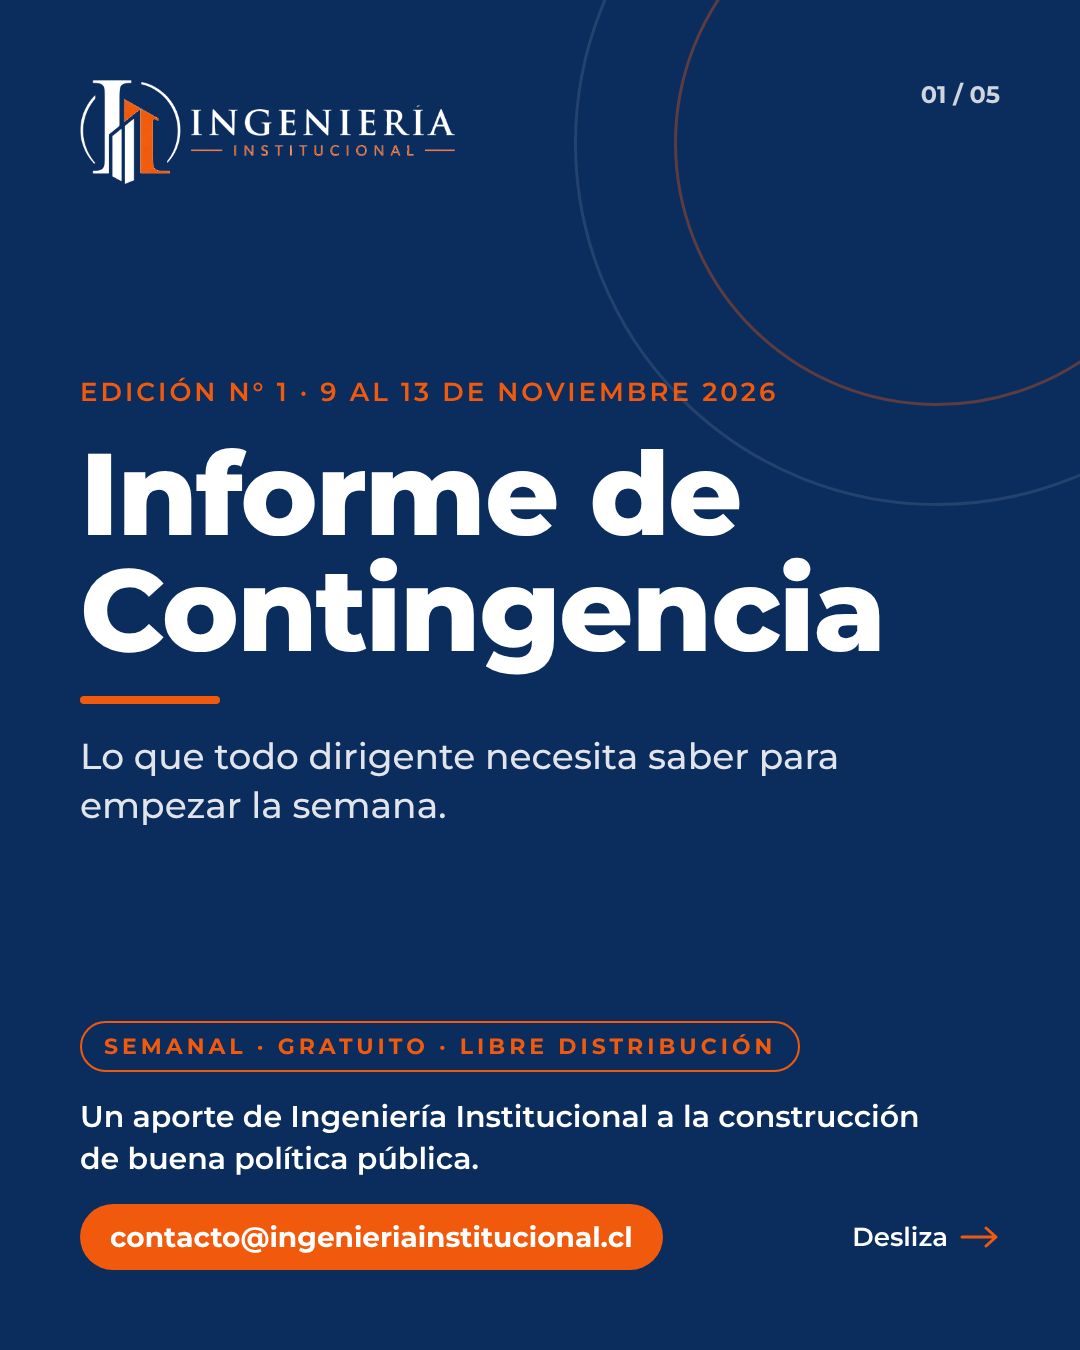
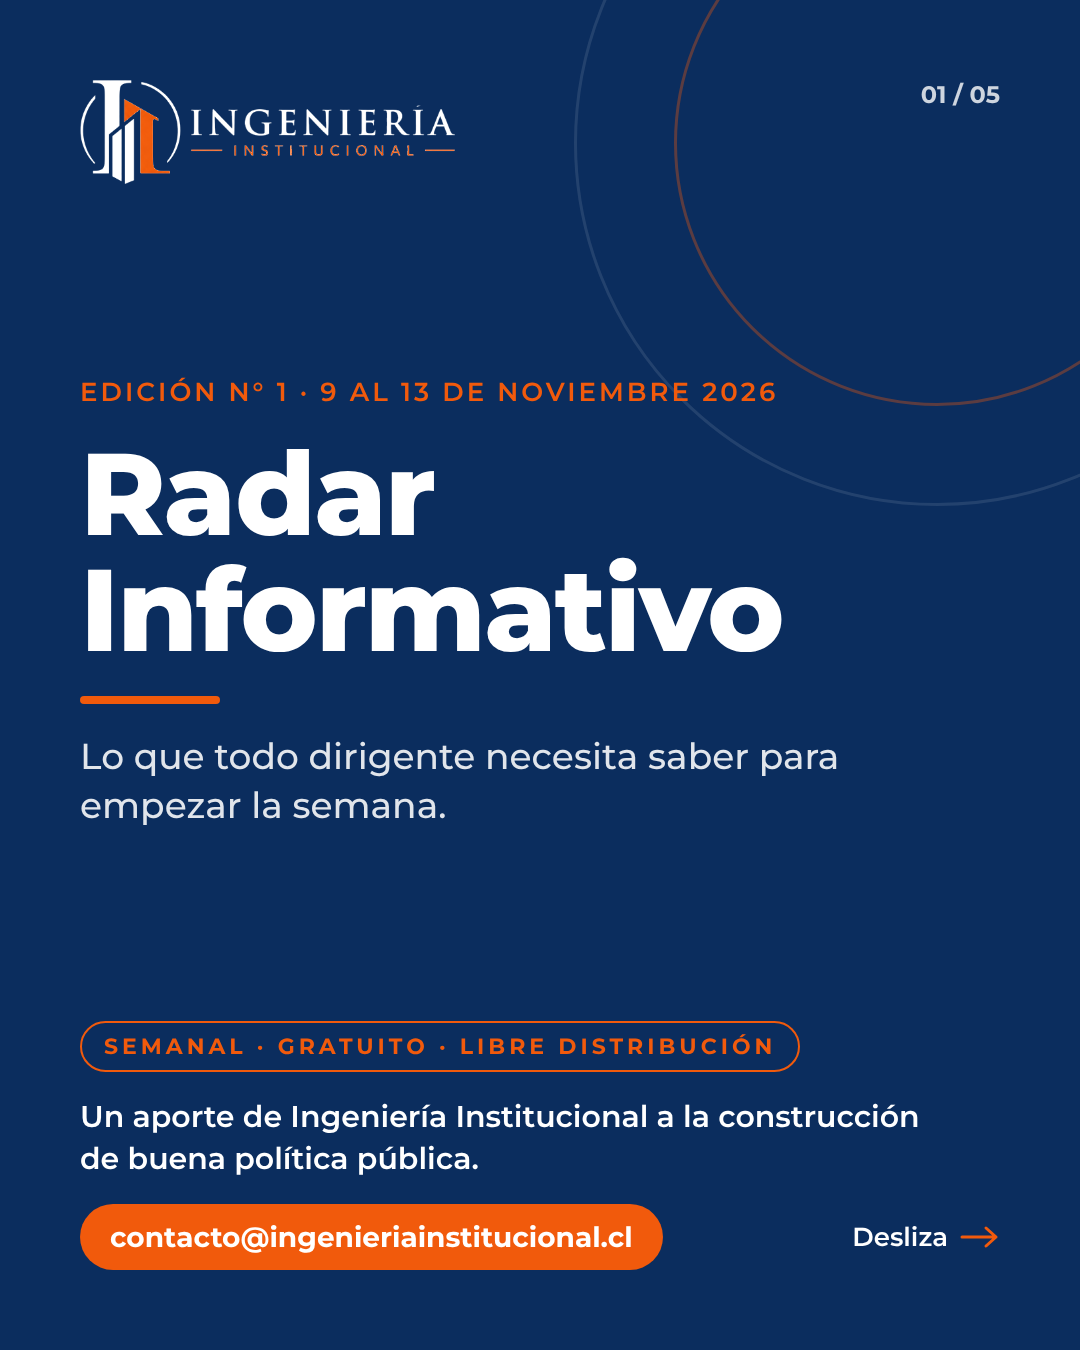
Renombra a Radar Informativo, reordena secciones y aclara el Presupuesto

Changed region(s): [[0.0611, 0.3111, 0.825, 0.4978]]

diff --git a/plantillas/carrusel.js b/plantillas/carrusel.js
@@ -51,7 +51,7 @@
     const mid = css(el('div'), 'display:flex;flex-direction:column;gap:28px;position:relative');
     mid.append(
       css(el('div', null, (ed.portada && ed.portada.kicker) || ('Edición N° ' + ed.numero + ' · ' + ed.rango)), `font-size:26px;font-weight:600;letter-spacing:3px;text-transform:uppercase;color:${ORANGE}`),
-      css(el('h1', null, 'Informe de Contingencia'), 'margin:0;font-size:116px;line-height:1.0;font-weight:800;letter-spacing:-2px'),
+      css(el('h1', null, 'Radar Informativo'), 'margin:0;font-size:116px;line-height:1.0;font-weight:800;letter-spacing:-2px'),
       css(el('div'), `width:140px;height:8px;background:${ORANGE};border-radius:4px`),
       css(el('p', null, (ed.portada && ed.portada.bajada) || ''), 'margin:0;font-size:36px;line-height:1.35;font-weight:500;color:rgba(255,255,255,0.88);max-width:880px')
     );
@@ -69,7 +69,7 @@
     return s;
   }
 
-  // 02 Resumen político
+  // 03 Resumen político
   function resumen() {
     const s = base('#F4F5F7');
     s.style.gap = '32px';
@@ -84,11 +84,11 @@
       cuerpo.append(c);
     });
     cuerpo.append(cajaAzul(ed.resumen.cierre_titulo || 'Qué significa para los gremios', ed.resumen.cierre, 27));
-    s.append(encabezado(2), titulo('Nuestra lectura de la semana', 'Resumen político'), cuerpo);
+    s.append(encabezado(3), titulo('Nuestra lectura de la semana', 'Resumen político'), cuerpo);
     return s;
   }
 
-  // 03 Seguimiento legislativo
+  // 04 Seguimiento legislativo
   function legislativo() {
     const s = base('#F4F5F7');
     const cuerpo = css(el('div'), 'display:flex;flex-direction:column;gap:16px;flex-grow:1;justify-content:space-between');
@@ -103,11 +103,11 @@
       c.append(h, css(rich('p', null, k.texto), `margin:0;font-size:23px;line-height:1.42;font-weight:500;color:${BODY}`), css(el('span', null, 'Próximo: ' + k.proximo), `font-size:21px;font-weight:700;color:${ORANGE_T}`));
       cuerpo.append(c);
     });
-    s.append(encabezado(3), titulo('En qué va cada tema', 'Seguimiento legislativo', 64), cuerpo);
+    s.append(encabezado(4), titulo('En qué va cada tema', 'Seguimiento legislativo', 64), cuerpo);
     return s;
   }
 
-  // 04 Economía en fácil
+  // 02 Economía en fácil
   function economia() {
     const s = base('#F4F5F7');
     s.style.gap = '24px';
@@ -123,12 +123,12 @@
     });
     const pie = css(el('div'), `display:flex;align-items:center;gap:20px;font-size:20px;font-weight:600;color:${GRAY}`);
     pie.append(css(el('div'), `width:64px;height:5px;background:${ORANGE};border-radius:3px`), el('span', null, 'Fuentes: ' + (ed.economia.fuentes || '')));
-    s.append(encabezado(4), titulo('Datos en fácil', '¿Cómo está la economía?', 60), grid, cajaAzul('En síntesis', ed.economia.sintesis, 24), pie);
+    s.append(encabezado(2), titulo('Datos en fácil', '¿Cómo está la economía?', 60), grid, cajaAzul('En síntesis', ed.economia.sintesis, 24), pie);
     return s;
   }
 
-  // 05 Radar de noticias
-  function radar() {
+  // 05 Noticias de la semana
+  function noticias() {
     const s = base('#F4F5F7');
     s.style.gap = '32px';
     const caja = css(el('div'), 'background:#fff;border-radius:20px;padding:14px 40px;display:flex;flex-direction:column;flex-grow:1;justify-content:space-around');
@@ -141,11 +141,11 @@
       );
       caja.append(d);
     });
-    s.append(encabezado(5), titulo('Lo que hay que leer', 'Radar de noticias'), caja);
+    s.append(encabezado(5), titulo('Lo que hay que leer', 'Noticias de la semana', 64), caja);
     return s;
   }
 
-  const laminas = [portada, resumen, legislativo, economia, radar];
+  const laminas = [portada, economia, resumen, legislativo, noticias];
   const pedida = Number(IC.param('lamina'));
   const cont = document.getElementById('laminas');
   if (pedida >= 1 && pedida <= TOTAL) cont.append(laminas[pedida - 1]());

diff --git a/index.html b/index.html
@@ -3,7 +3,7 @@
 <head>
 <meta charset="utf-8">
 <meta name="viewport" content="width=device-width, initial-scale=1">
-<title>Informe de Contingencia · Ingeniería Institucional</title>
+<title>Radar Informativo · Ingeniería Institucional</title>
 <meta name="description" content="Lo que todo dirigente necesita saber para empezar la semana. Un aporte semanal y de libre distribución de Ingeniería Institucional.">
 <link rel="icon" href="assets/logo-color.png">
 <link rel="stylesheet" href="assets/fonts.css">
@@ -20,7 +20,7 @@
       </label>
     </div>
     <div class="ic-kicker" id="ic-kicker">Cargando…</div>
-    <h1 class="ic-title">Informe de Contingencia</h1>
+    <h1 class="ic-title">Radar Informativo</h1>
     <div class="ic-rule"></div>
     <p class="ic-bajada" id="ic-bajada"></p>
     <a class="ic-descarga" id="ic-descarga" href="#" hidden>Descargar carrusel (imágenes)</a>
@@ -30,28 +30,28 @@
   <div class="ic-anterior" id="ic-anterior" hidden>Estás viendo una edición anterior. <a href="./">Ir a la edición vigente</a></div>
 
   <main id="ic-main">
+    <section class="ic-panel" id="economia">
+      <div class="ic-sec"><span class="ic-sec-n">01.</span><h2>Economía en fácil</h2></div>
+      <p class="ic-intro">Cuatro preguntas para entender cómo está la economía.</p>
+      <div class="ic-grid" id="ic-indicadores"></div>
+      <div class="ic-sintesis"><span>En síntesis</span><p id="ic-econ-sintesis"></p></div>
+    </section>
+
     <section class="ic-panel" id="resumen">
-      <div class="ic-sec"><span class="ic-sec-n">01.</span><h2>Resumen político</h2></div>
+      <div class="ic-sec"><span class="ic-sec-n">02.</span><h2>Resumen político</h2></div>
       <p class="ic-intro">Nuestra lectura de la semana.</p>
       <div class="ic-pol" id="ic-pol"></div>
       <div class="ic-sintesis"><span id="ic-cierre-titulo"></span><p id="ic-cierre"></p></div>
     </section>
 
     <section class="ic-panel" id="agenda">
-      <div class="ic-sec"><span class="ic-sec-n">02.</span><h2>Seguimiento legislativo</h2></div>
+      <div class="ic-sec"><span class="ic-sec-n">03.</span><h2>Seguimiento legislativo</h2></div>
       <p class="ic-intro">En qué va cada tema, qué viene y qué conviene hacer.</p>
       <div class="ic-list" id="ic-frentes"></div>
     </section>
 
-    <section class="ic-panel" id="economia">
-      <div class="ic-sec"><span class="ic-sec-n">03.</span><h2>Economía en fácil</h2></div>
-      <p class="ic-intro">Cuatro preguntas para entender cómo está la economía.</p>
-      <div class="ic-grid" id="ic-indicadores"></div>
-      <div class="ic-sintesis"><span>En síntesis</span><p id="ic-econ-sintesis"></p></div>
-    </section>
-
     <section class="ic-panel" id="noticias">
-      <div class="ic-sec"><span class="ic-sec-n">04.</span><h2>Radar de noticias</h2></div>
+      <div class="ic-sec"><span class="ic-sec-n">04.</span><h2>Noticias de la semana</h2></div>
       <p class="ic-intro">Noticias seleccionadas, ordenadas por tema. Cada titular abre la nota original.</p>
       <div class="ic-news" id="ic-noticias"></div>
     </section>

diff --git a/ediciones/2026-11-09/carrusel/index.html b/ediciones/2026-11-09/carrusel/index.html
@@ -1,6 +1,6 @@
 <!doctype html>
 <html lang="es"><head><meta charset="utf-8"><meta name="viewport" content="width=device-width, initial-scale=1">
-<title>Carrusel N° 1 · Informe de Contingencia</title>
+<title>Carrusel N° 1 · Radar Informativo</title>
 <link rel="stylesheet" href="../../../assets/fonts.css">
 <style>body{margin:0;background:#F4F5F7;color:#0B2D5E;font-family:Montserrat,system-ui,sans-serif;padding:24px}
 main{max-width:1100px;margin:0 auto}h1{font-size:1.5rem}a{color:#C2410C;font-weight:700}
@@ -10,7 +10,7 @@ figure{margin:0;background:#fff;border-radius:12px;padding:12px}img{width:100%;h
 <h1>Carrusel · Edición N° 1 · 9 al 13 de noviembre de 2026</h1>
 <p>Láminas de 1080 × 1350 px para Instagram, LinkedIn o WhatsApp.</p>
 <div class="grid"><figure><img src="01-portada.png" alt="01-portada" loading="lazy"><figcaption><a href="01-portada.png" download>Descargar 01-portada.png</a></figcaption></figure>
-<figure><img src="02-resumen-politico.png" alt="02-resumen-politico" loading="lazy"><figcaption><a href="02-resumen-politico.png" download>Descargar 02-resumen-politico.png</a></figcaption></figure>
-<figure><img src="03-seguimiento-legislativo.png" alt="03-seguimiento-legislativo" loading="lazy"><figcaption><a href="03-seguimiento-legislativo.png" download>Descargar 03-seguimiento-legislativo.png</a></figcaption></figure>
-<figure><img src="04-economia-en-facil.png" alt="04-economia-en-facil" loading="lazy"><figcaption><a href="04-economia-en-facil.png" download>Descargar 04-economia-en-facil.png</a></figcaption></figure>
-<figure><img src="05-radar-de-noticias.png" alt="05-radar-de-noticias" loading="lazy"><figcaption><a href="05-radar-de-noticias.png" download>Descargar 05-radar-de-noticias.png</a></figcaption></figure></div></main></body></html>
+<figure><img src="02-economia-en-facil.png" alt="02-economia-en-facil" loading="lazy"><figcaption><a href="02-economia-en-facil.png" download>Descargar 02-economia-en-facil.png</a></figcaption></figure>
+<figure><img src="03-resumen-politico.png" alt="03-resumen-politico" loading="lazy"><figcaption><a href="03-resumen-politico.png" download>Descargar 03-resumen-politico.png</a></figcaption></figure>
+<figure><img src="04-seguimiento-legislativo.png" alt="04-seguimiento-legislativo" loading="lazy"><figcaption><a href="04-seguimiento-legislativo.png" download>Descargar 04-seguimiento-legislativo.png</a></figcaption></figure>
+<figure><img src="05-noticias-de-la-semana.png" alt="05-noticias-de-la-semana" loading="lazy"><figcaption><a href="05-noticias-de-la-semana.png" download>Descargar 05-noticias-de-la-semana.png</a></figcaption></figure></div></main></body></html>

diff --git a/assets/site.js b/assets/site.js
@@ -34,14 +34,14 @@
   // Encabezado
   $('ic-kicker').textContent = 'Edición N° ' + ed.numero + ' · ' + ed.rango;
   $('ic-bajada').textContent = (ed.portada && ed.portada.bajada) || '';
-  document.title = 'Informe de Contingencia N° ' + ed.numero + ' · Ingeniería Institucional';
+  document.title = 'Radar Informativo N° ' + ed.numero + ' · Ingeniería Institucional';
   $('ic-borrador').hidden = ed.estado === 'publicada';
   $('ic-anterior').hidden = !(ed.estado === 'publicada' && vig && ed.id !== vig.id);
   const desc = $('ic-descarga');
   desc.href = 'ediciones/' + ed.id + '/carrusel/';
   desc.hidden = false;
 
-  // 01 Resumen político
+  // 02 Resumen político
   (ed.resumen.items || []).forEach((r) => {
     const c = el('article', 'ic-card ic-pol-item');
     c.append(el('span', 'ic-pol-num', r.cifra), el('span', 'ic-pol-lab', r.etiqueta), el('h3', null, r.titulo), rich('p', null, r.texto));
@@ -50,7 +50,7 @@
   $('ic-cierre-titulo').textContent = ed.resumen.cierre_titulo || 'Qué significa para los gremios';
   $('ic-cierre').textContent = ed.resumen.cierre || '';
 
-  // 02 Seguimiento legislativo
+  // 03 Seguimiento legislativo
   (ed.frentes || []).forEach((f) => {
     const c = el('article', 'ic-card ic-f');
     const head = el('div', 'ic-f-head');
@@ -69,7 +69,7 @@
     $('ic-frentes').append(c);
   });
 
-  // 03 Economía en fácil
+  // 01 Economía en fácil
   (ed.economia.indicadores || []).forEach((i) => {
     const c = el('article', 'ic-card ic-ind');
     c.append(el('h3', null, i.pregunta), el('span', 'ic-ind-val', i.valor), el('span', 'ic-light ' + i.semaforo, i.estado), rich('p', null, i.texto), el('span', 'ic-ind-src', 'Fuente: ' + i.fuente));
@@ -77,7 +77,7 @@
   });
   $('ic-econ-sintesis').textContent = ed.economia.sintesis || '';
 
-  // 04 Radar de noticias
+  // 04 Noticias de la semana
   const grupos = new Map();
   (ed.noticias || []).slice().sort((a, b) => String(b.fecha).localeCompare(String(a.fecha))).forEach((n) => {
     if (!grupos.has(n.tema)) grupos.set(n.tema, []);

diff --git a/scripts/generar-carrusel.js b/scripts/generar-carrusel.js
@@ -24,7 +24,7 @@ const server = http.createServer((req, res) => {
   fs.createReadStream(file).pipe(res);
 });
 
-const nombres = ['01-portada', '02-resumen-politico', '03-seguimiento-legislativo', '04-economia-en-facil', '05-radar-de-noticias'];
+const nombres = ['01-portada', '02-economia-en-facil', '03-resumen-politico', '04-seguimiento-legislativo', '05-noticias-de-la-semana'];
 
 server.listen(0, '127.0.0.1', async () => {
   const port = server.address().port;
@@ -59,7 +59,7 @@ server.listen(0, '127.0.0.1', async () => {
   const items = nombres.map((n) => `<figure><img src="${n}.png" alt="${n}" loading="lazy"><figcaption><a href="${n}.png" download>Descargar ${n}.png</a></figcaption></figure>`).join('\n');
   fs.writeFileSync(path.join(salida, 'index.html'), `<!doctype html>
 <html lang="es"><head><meta charset="utf-8"><meta name="viewport" content="width=device-width, initial-scale=1">
-<title>Carrusel N° ${ed.numero} · Informe de Contingencia</title>
+<title>Carrusel N° ${ed.numero} · Radar Informativo</title>
 <link rel="stylesheet" href="../../../assets/fonts.css">
 <style>body{margin:0;background:#F4F5F7;color:#0B2D5E;font-family:Montserrat,system-ui,sans-serif;padding:24px}
 main{max-width:1100px;margin:0 auto}h1{font-size:1.5rem}a{color:#C2410C;font-weight:700}

diff --git a/plantillas/carrusel.html b/plantillas/carrusel.html
@@ -2,7 +2,7 @@
 <html lang="es">
 <head>
 <meta charset="utf-8">
-<title>Carrusel · Informe de Contingencia</title>
+<title>Carrusel · Radar Informativo</title>
 <link rel="stylesheet" href="../assets/fonts.css">
 <style>
   body { margin: 0; background: #DDE1E7; font-family: 'Montserrat', sans-serif; }

diff --git a/GUIA-EDITORIAL.md b/GUIA-EDITORIAL.md
@@ -1,4 +1,4 @@
-# Guía editorial y de producción · Informe de Contingencia
+# Guía editorial y de producción · Radar Informativo
 
 Esta guía la sigue la tarea automática de cada domingo, y sirve también para quien prepare una edición a mano. Si cambia el criterio editorial, se edita este archivo.
 
@@ -9,10 +9,10 @@ Esta guía la sigue la tarea automática de cada domingo, y sirve también para 
 - **Formatos:** sitio web (este repositorio, con GitHub Pages) y carrusel de 5 imágenes (1080 × 1350).
 - **Ciclo:** se prepara el domingo y queda listo a las 21:00 como **borrador**. Se publica cuando Tomás Laibe o Andrés Smith lo aprueban, y se distribuye el lunes a primera hora.
 - **Secciones, en este orden:**
-  1. Resumen político
-  2. Seguimiento legislativo
-  3. Economía en fácil
-  4. Radar de noticias
+  1. Economía en fácil (datos)
+  2. Resumen político
+  3. Seguimiento legislativo
+  4. Noticias de la semana
 
 ## Criterios de escritura
 

diff --git a/README.md b/README.md
@@ -1,6 +1,6 @@
-# Informe de Contingencia · Ingeniería Institucional
+# Radar Informativo · Ingeniería Institucional
 
-Lo que todo dirigente necesita saber para empezar la semana: resumen político, seguimiento legislativo, economía en fácil y radar de noticias. Es un aporte semanal y de libre distribución de Ingeniería Institucional para la construcción de buena política pública.
+Lo que todo dirigente necesita saber para empezar la semana: economía en fácil, resumen político, seguimiento legislativo y noticias de la semana. Es un aporte semanal y de libre distribución de Ingeniería Institucional para la construcción de buena política pública.
 
 - **Sitio:** https://tlaibe.github.io/informe-contingencia/ (siempre muestra la edición vigente y permite revisar las anteriores).
 - **Carrusel:** cada edición tiene sus 5 imágenes en `ediciones/AAAA-MM-DD/carrusel/`.
